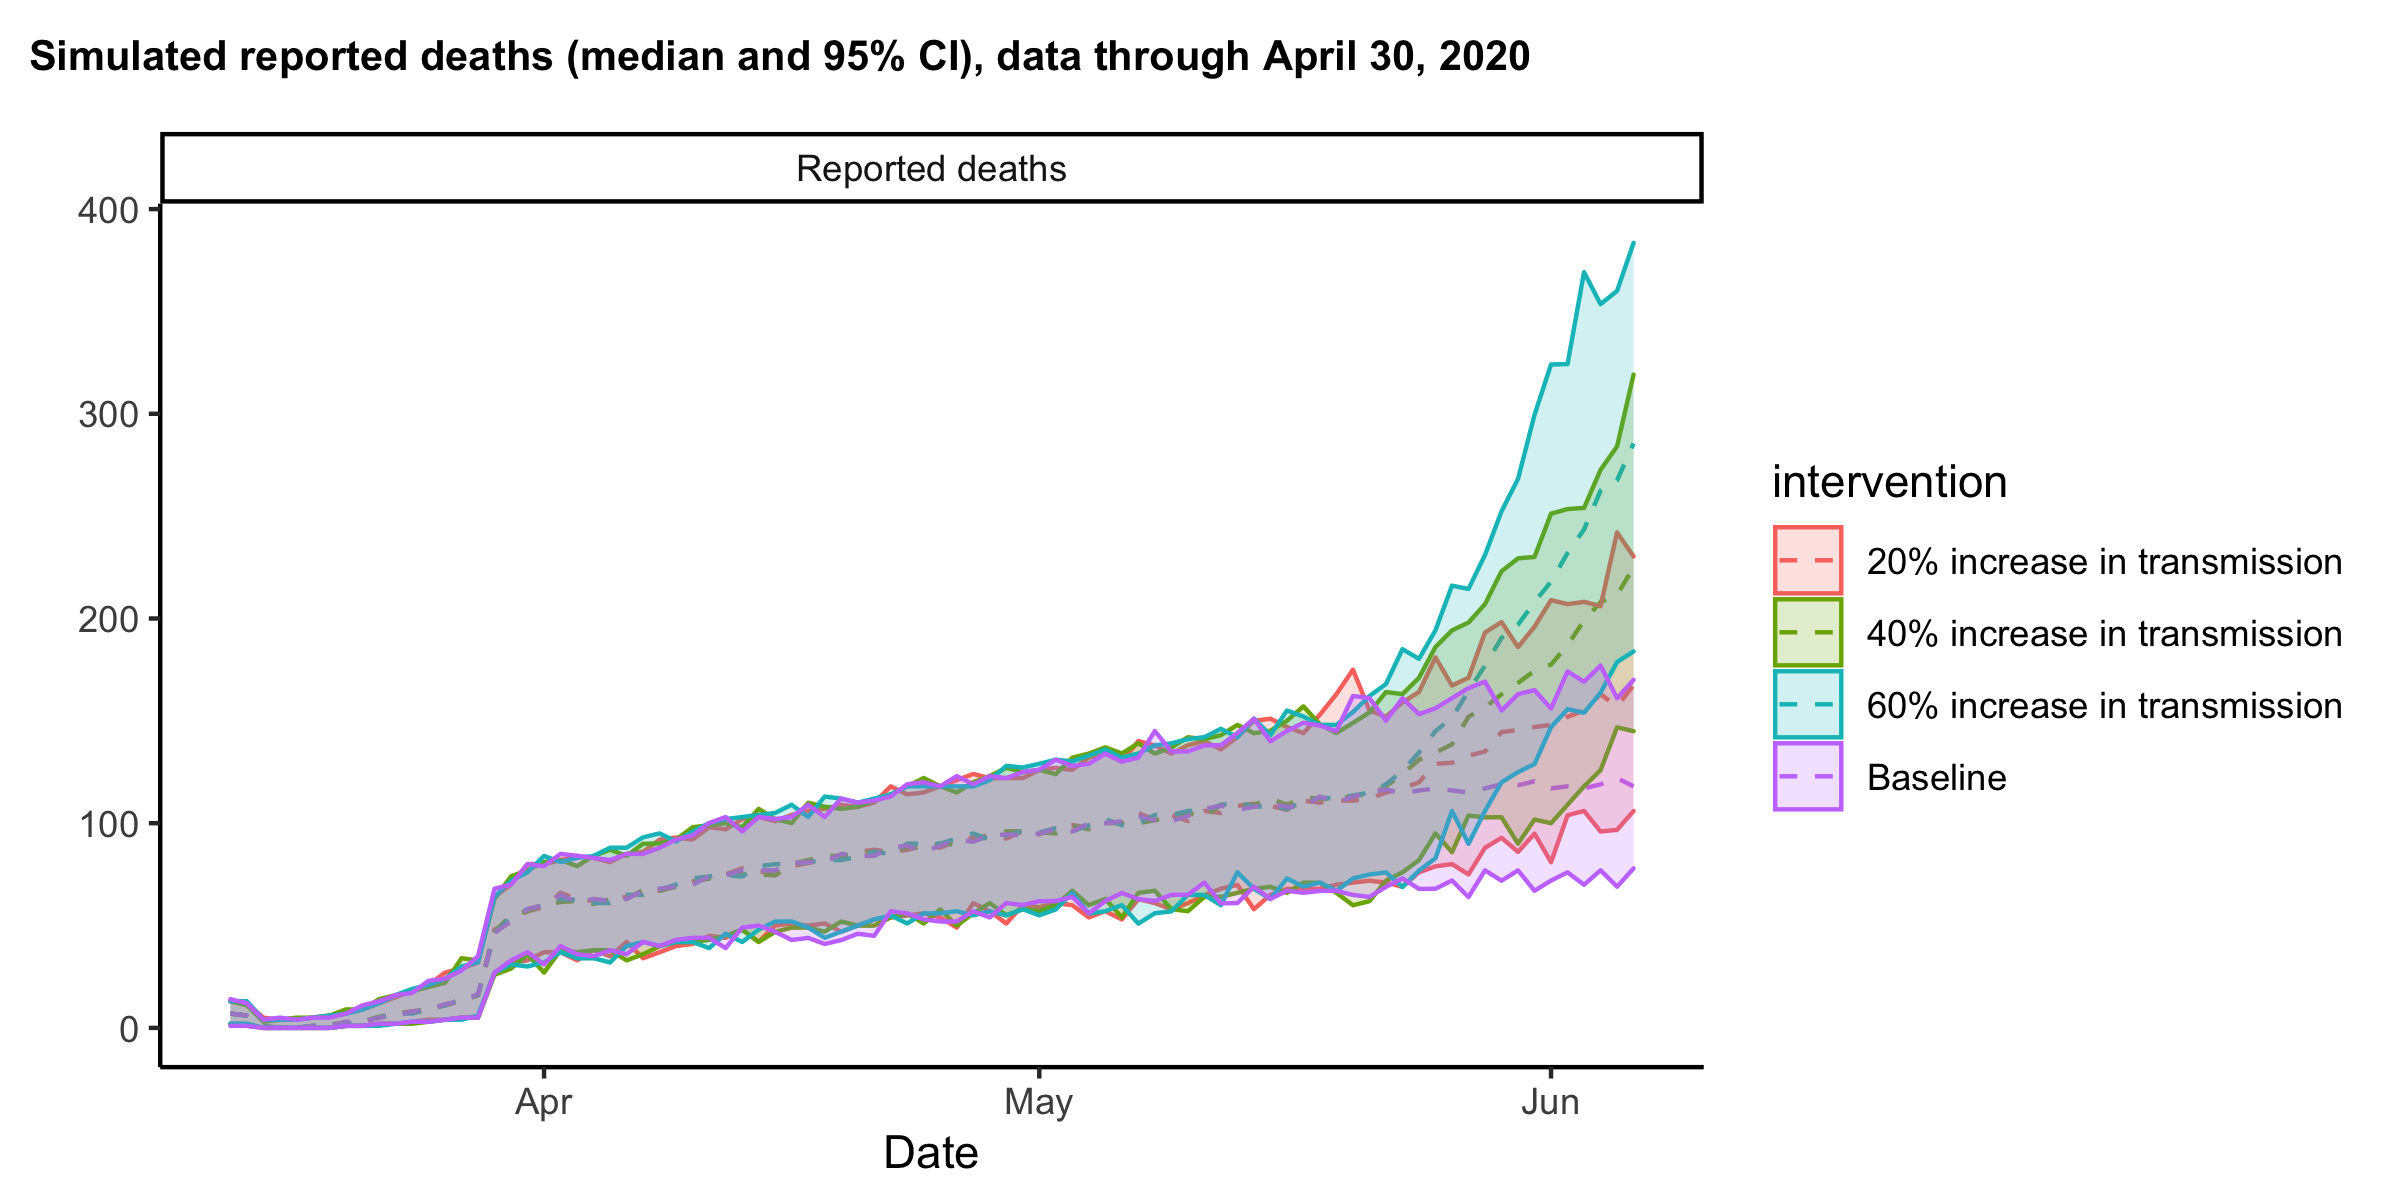
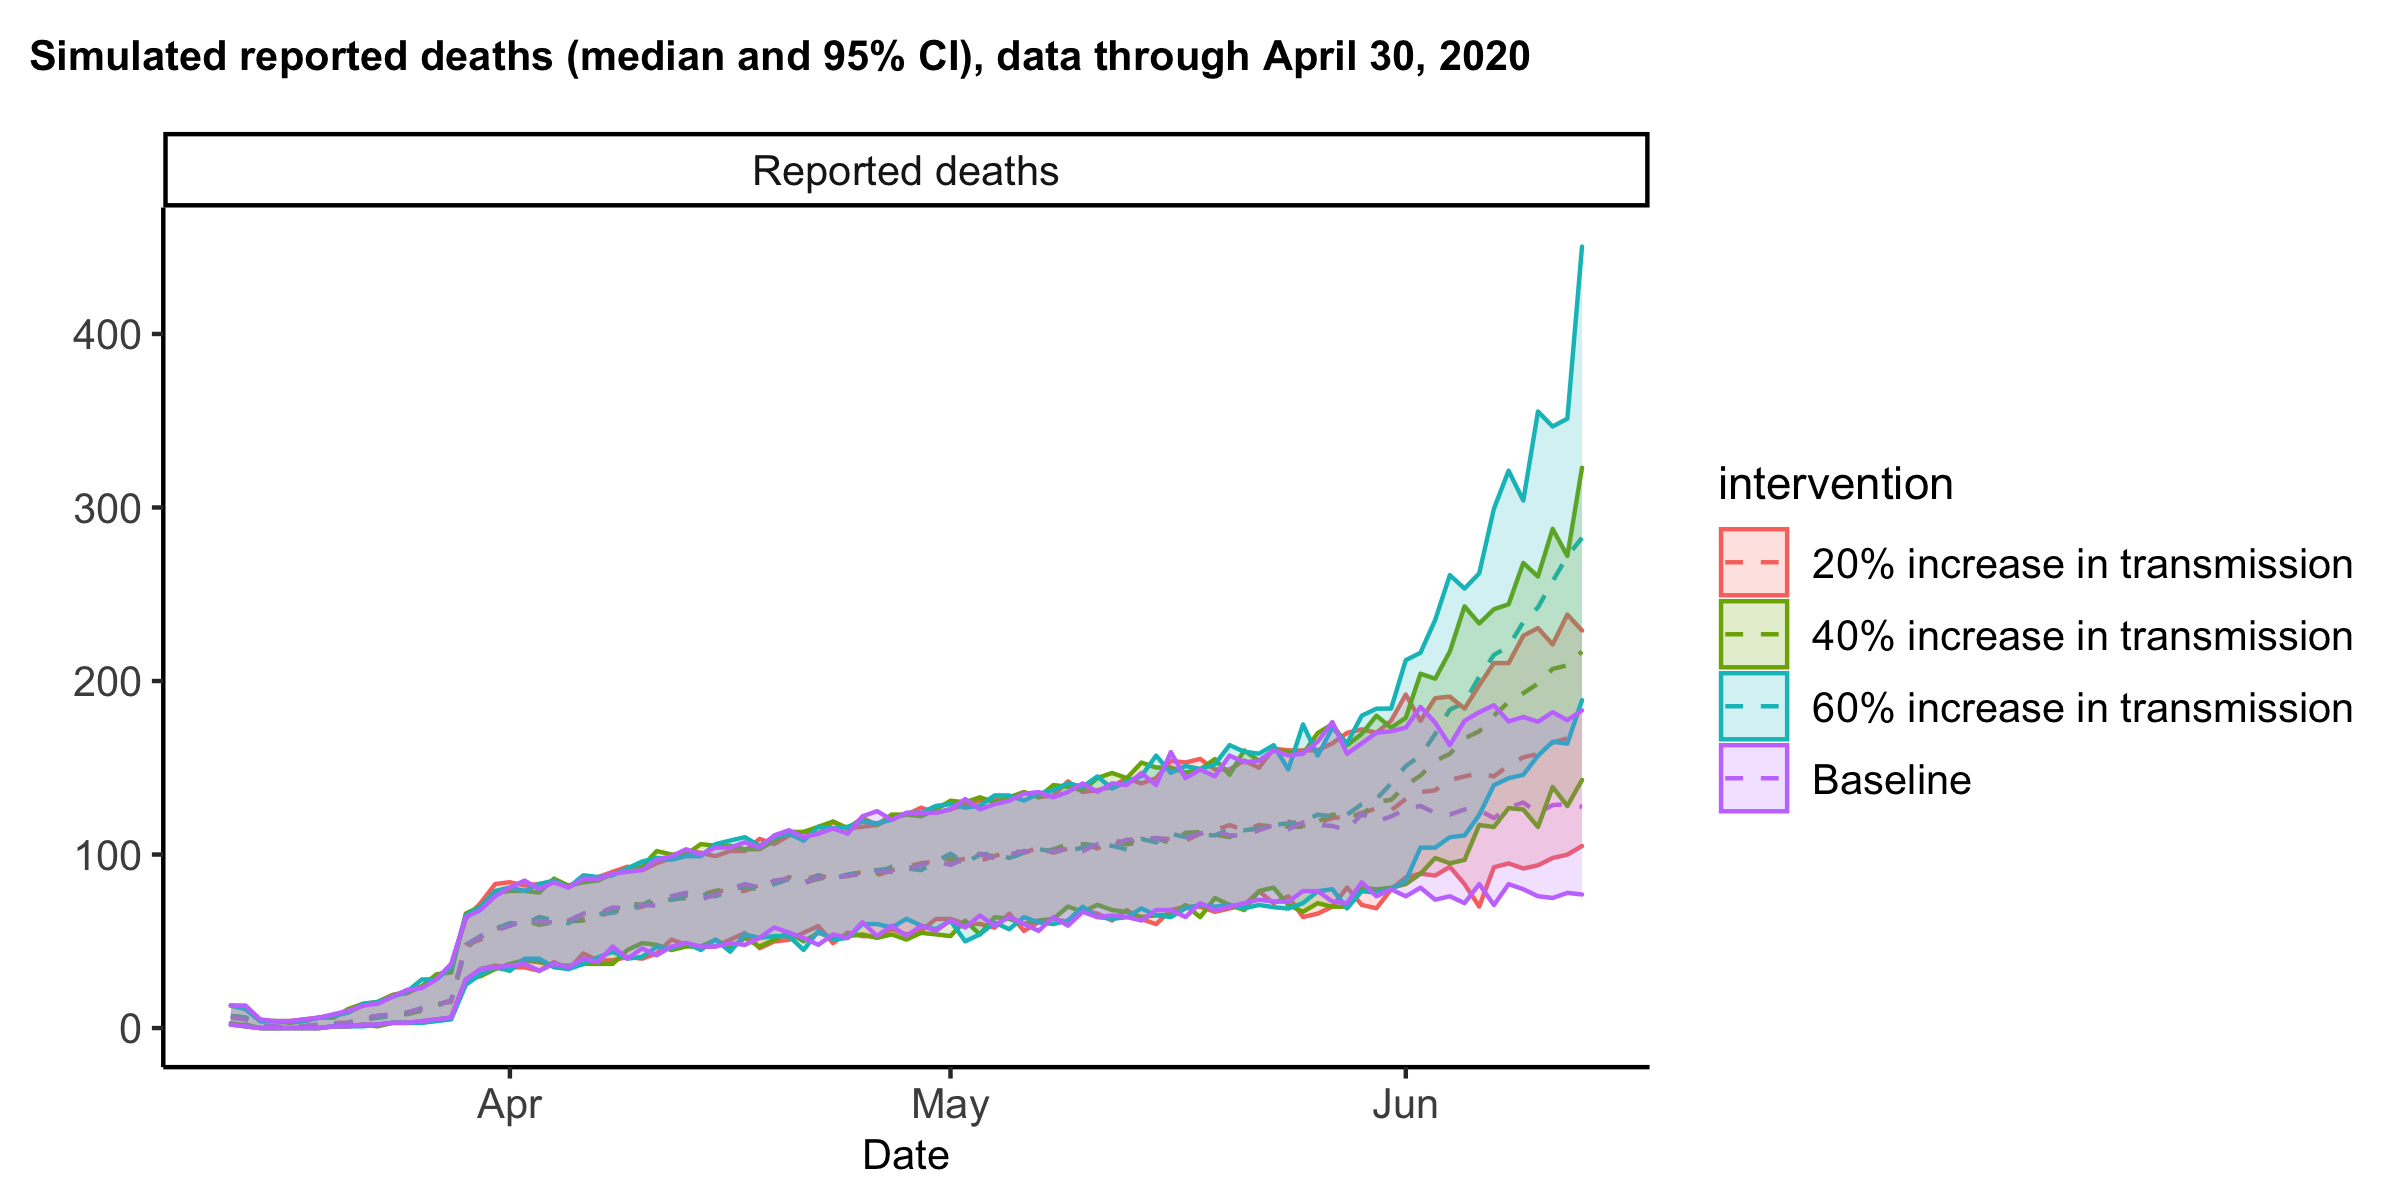
forecasting updates

diff --git a/Forecasting/README.md b/Forecasting/README.md
@@ -5,7 +5,20 @@ We implement public health interventions both by scaling contact rates and by sc
 We assume that a stay-at-home order scales down non-home contacts (work contacts, school contacts, and other contacts). 
 On March 16, we scaled down school contacts to 0, work contacts to 0.6 times their normal value, and other contacts to 0.5 times their normal value. 
 We then inferred a separate post-intervention transmission rate.
-For the baseline model scenario, we maintain the inferred value of the post-intervention transmission rate indefinitely. We assume that this is the maximum reduction in transmission. To model the relaxing of shelter-in-place interventions, we project three additional scenarios with a scaled increase to the post-intervention transmission rate by 20%, 40% or 60%.
+For the baseline model scenario, we maintain the inferred value of the post-intervention transmission rate indefinitely. We assume that this is the maximum reduction in transmission. To model the relaxing of shelter-in-place interventions, we project three additional scenarios:
+
+1. The post-intervention transmission rate increases by 20%. At our current parameter estimates, this corresopnds to a 72% reduction in pre-intervention transmission rate.
+2. The post-intervention transmission rate increases by 40%. At our current parameter estimates, this corresopnds to a 67% reduction in pre-intervention transmission.
+3. The post-intervention transmission rate increases by 60%. At our current estimates, this corresopnds to a 62% reduction in pre-intervention transmission.
+
+Figure 1 gives the projected incident infections, population prevalence, non-ICU hospital occupancy, and ICU occupancy through June 13, 2020 under the four model scenarios. 
+
+![Figure 1](./plots/summary_outputs.png)
+
+
+Figure 2 gives the projected reported hosptialized and non-hospitalized deaths through June 13, 2020 under the four model scenarios. 
+
+![Figure 2](./plots/death_summary_ouptuts.png) 
 
 ## File descriptions
 
